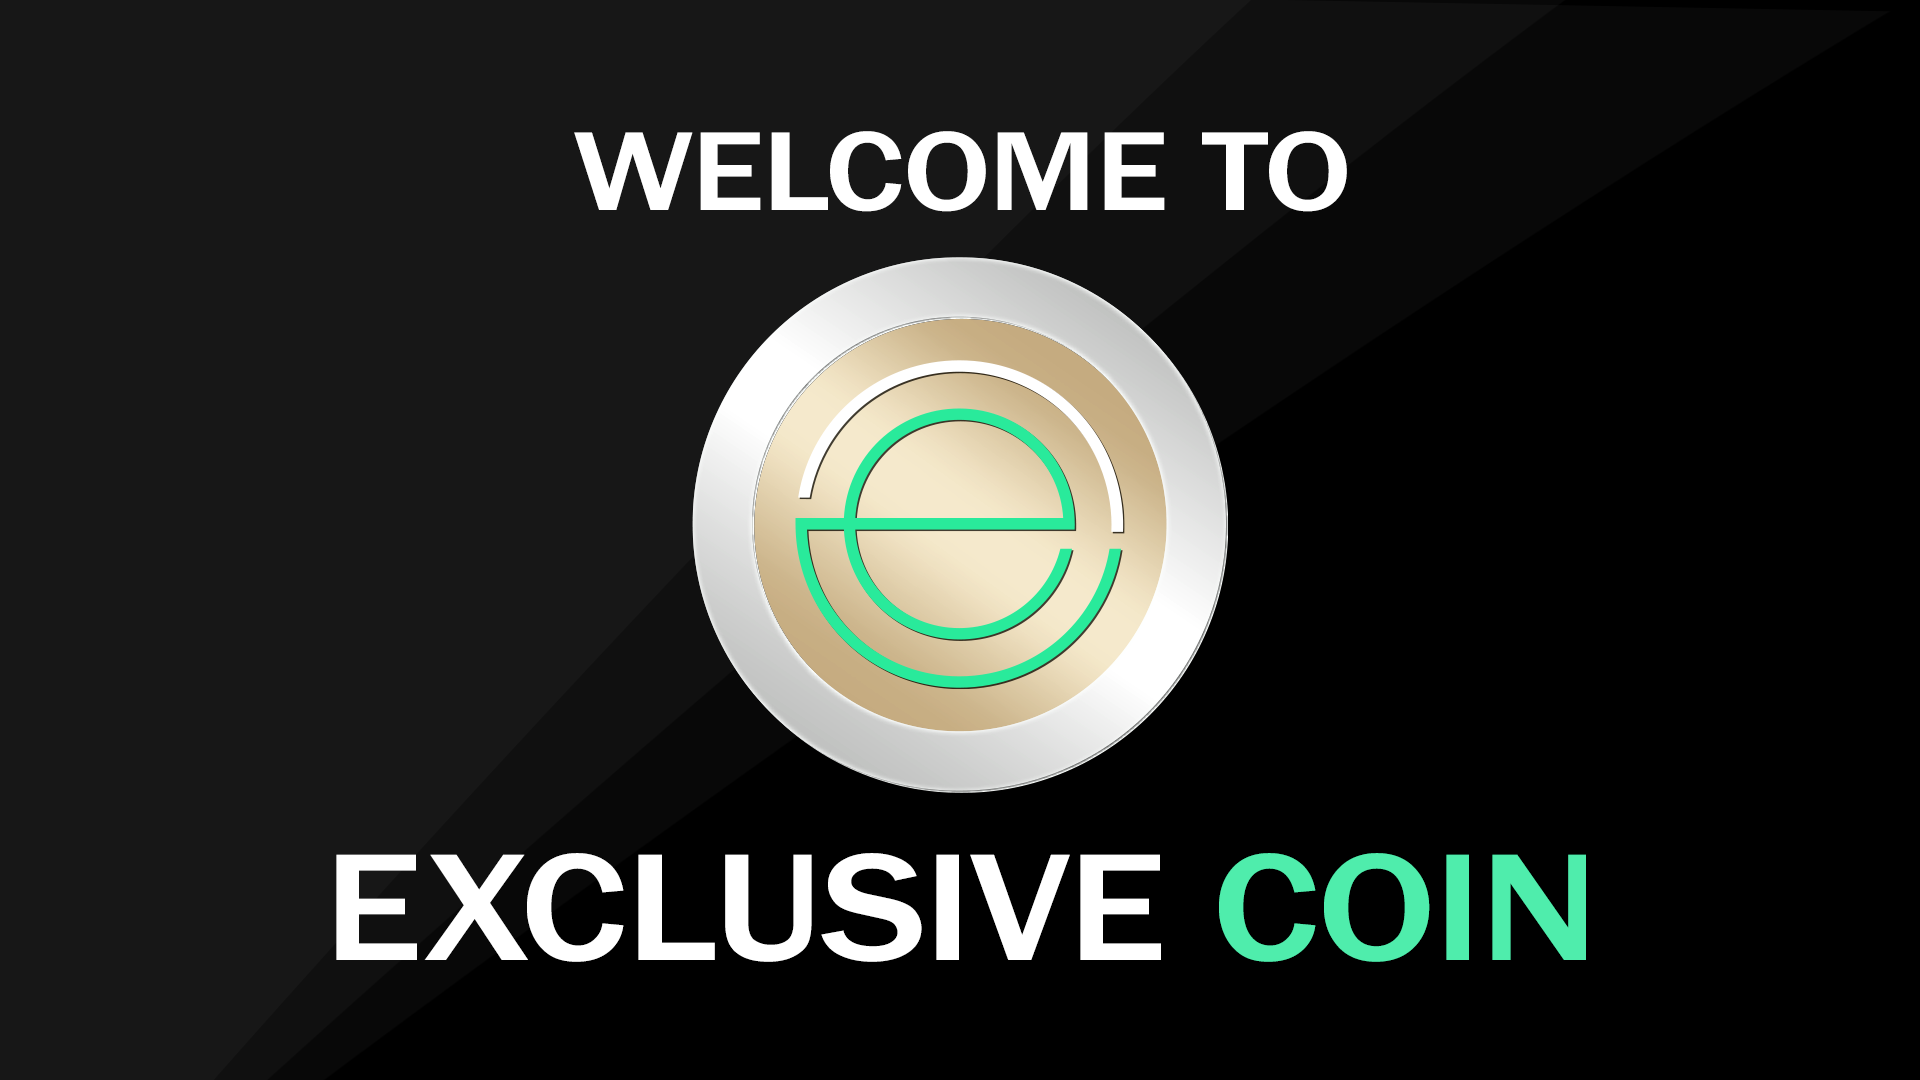
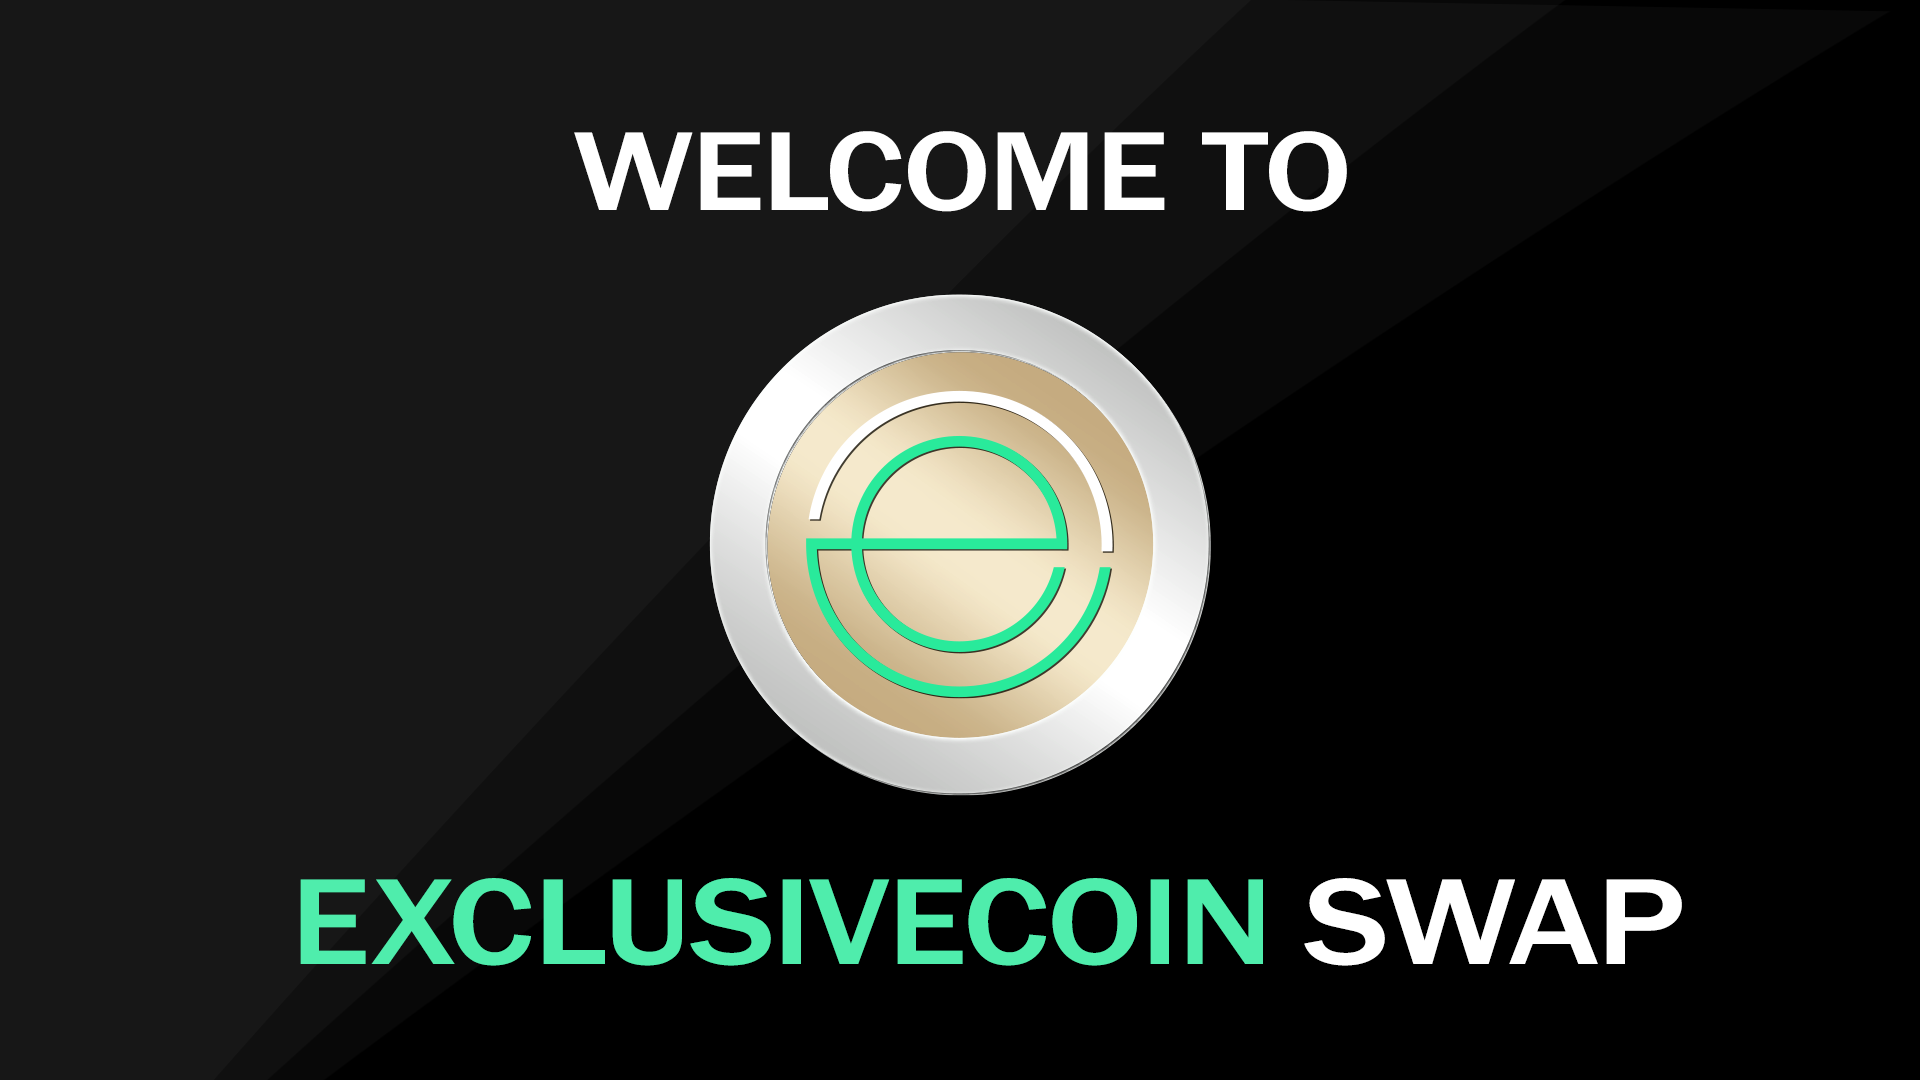
f

diff --git a/swap/index.html b/swap/index.html
@@ -966,7 +966,7 @@
     />
     <meta
       property="og:description"
-      content="ExclusiveCoin is our innovative new purchasing method that allows you to get our VAULT token without needing to use an exchange such as pancake swap"
+      content="ExclusiveCoin is our innovative new purchasing method that allows you to get our ExclusiveCointoken without needing to use an exchange such as pancake swap"
     />
     <meta property="og:url" content="index.html" />
     <meta property="og:site_name" content="Safe Vault" />
@@ -976,22 +976,22 @@
     />
     <meta
       property="og:image"
-      content="../wp-content/uploads/2021/07/welcome-to-swap.jpg"
+      content="../wp-content/uploads/2021/07/welcome-to-swap.png"
     />
     <meta property="og:image:width" content="800" />
     <meta property="og:image:height" content="450" />
     <meta name="twitter:card" content="summary_large_image" />
     <meta
       name="twitter:title"
-      content="SafeVault Swap - Revolutionizing Token Purchases One Swap at a Time"
+      content="ExclusiveCoin - Revolutionizing Token Purchases One Swap at a Time"
     />
     <meta
       name="twitter:description"
-      content="Safevault Swap is our innovative new purchasing method that allows you to get our VAULT token without needing to use an exchange such as pancake swap"
+      content="ExclusiveCoin is our innovative new purchasing method that allows you to get our ExclusiveCoin token without needing to use an exchange such as pancake swap"
     />
     <meta
       name="twitter:image"
-      content="../wp-content/uploads/2021/07/welcome-to-swap.jpg"
+      content="../wp-content/uploads/2021/07/welcome-to-swap.png"
     />
     <meta name="twitter:site" content="@Safemoon_vault" />
     <meta name="twitter:label1" content="Est. reading time" />
